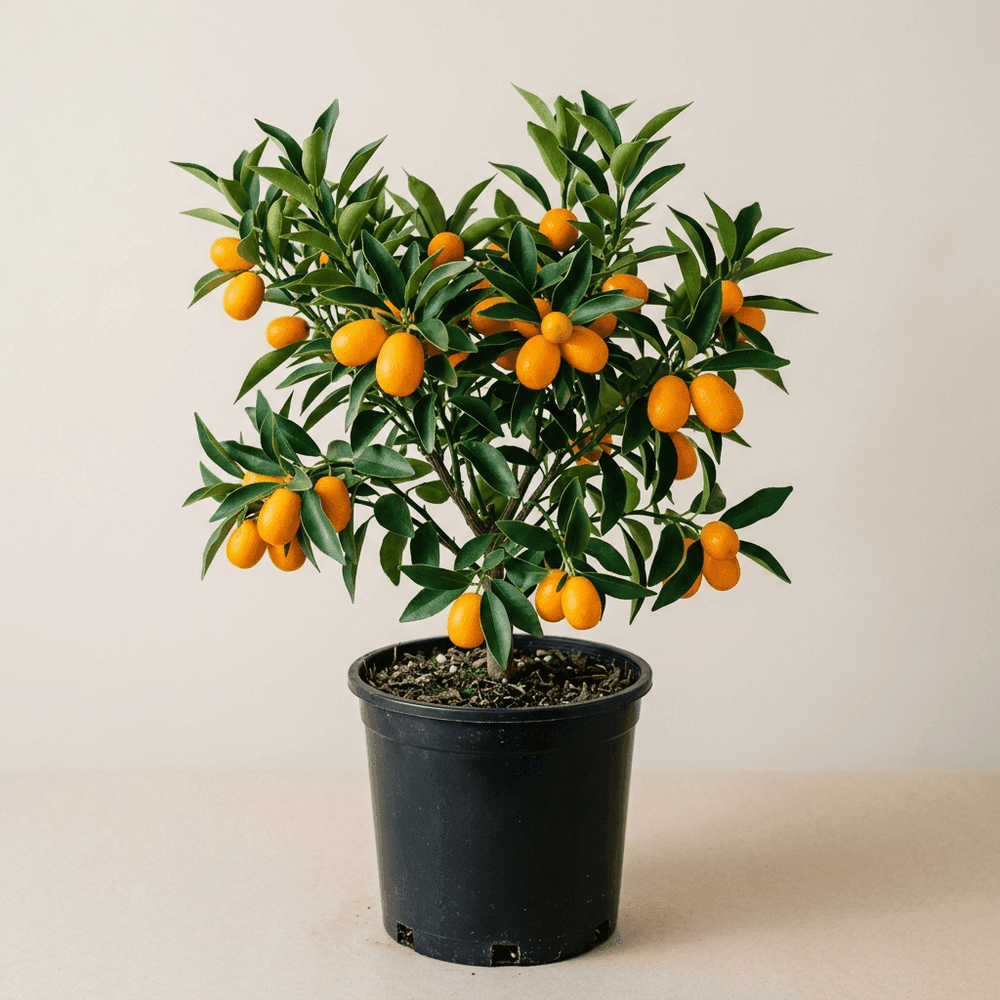
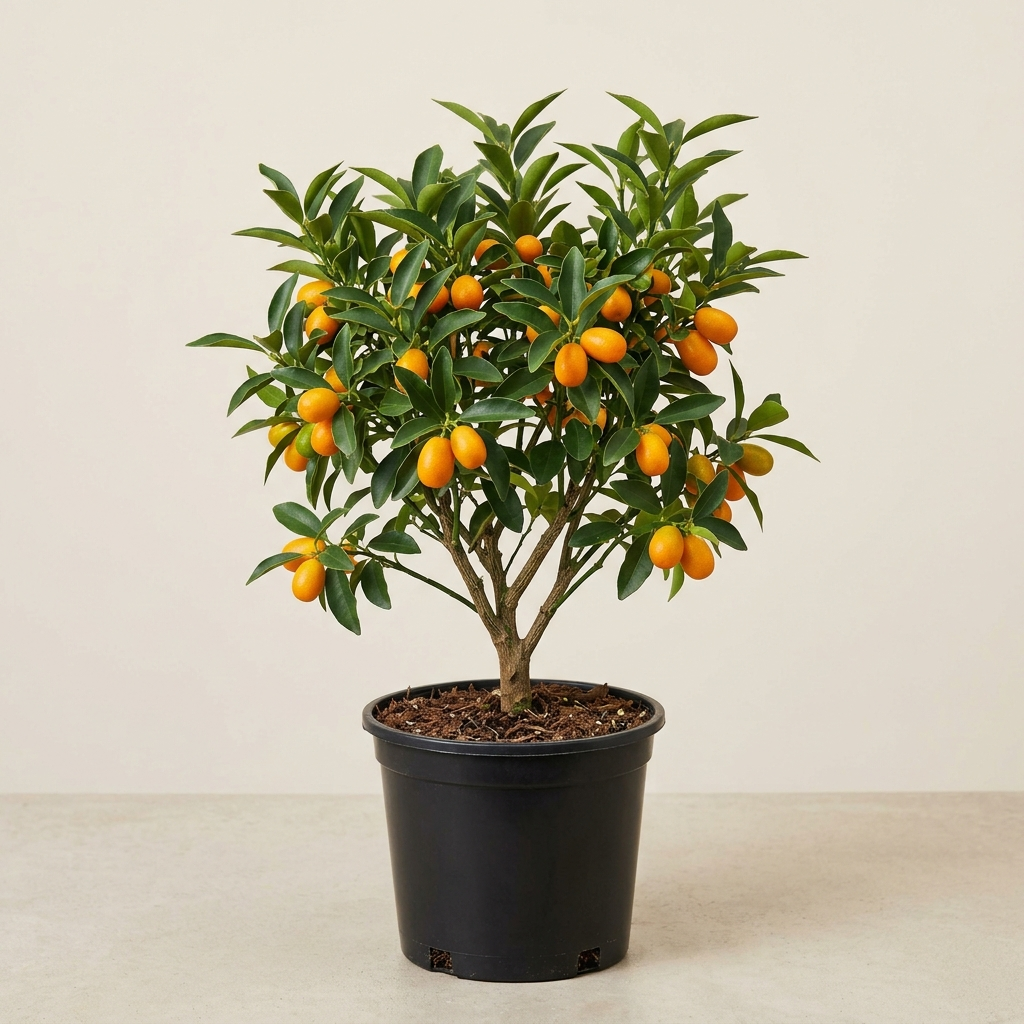
Agrega productos Kumquat y Cardenal con imagenes

diff --git a/src/lib/products.ts b/src/lib/products.ts
@@ -55,6 +55,9 @@ import lavandaL from "@/assets/p-lavanda-l.png";
 import helechoS from "@/assets/p-helecho-s.png";
 import helechoM from "@/assets/p-helecho-m.png";
 import helechoL from "@/assets/p-helecho-l.png";
+import nandinaS from "@/assets/p-nandina.png";
+import kumquatS from "@/assets/p-kumquat.png";
+import cardenalS from "@/assets/p-cardenal.png";
 import { getStorefrontApiUrl, getPublicTokenHeaders } from "./shopify";
 
 
@@ -83,6 +86,75 @@ export type Product = {
 };
 
 export const products: Product[] = [
+  {
+    slug: "cardenal-pelargonium",
+    name: "Cardenal · Pelargonium",
+    scientific: "Pelargonium zonale",
+    category: "Plantas",
+    price: 4900,
+    image: cardenalS,
+    images: [cardenalS, cardenalS, cardenalS],
+    tag: "Best Seller",
+    care: "Fácil",
+    description: "El Cardenal (Pelargonium zonale) es la planta de exterior floreciente por excelencia en balcones, jardineras y patios de todo Chile. Es famoso por su resistencia inigualable y su capacidad para producir agrupaciones de flores de colores muy vibrantes durante la mayor parte del año. Sus hojas redondeadas, a menudo con una zona central más oscura, desprenden un suave aroma al tacto. Es ideal para aportar color tradicional a cualquier rincón soleado con exigencias de cuidado mínimas.",
+    careDetails: "Requiere pleno sol para una floración abundante y constante. Riego moderado, permitiendo que el sustrato se seque superficialmente antes de volver a regar; sensible al exceso de humedad en las raíces. Eliminar las flores marchitas estimula nuevos brotes.",
+    pricesBySize: {
+      "Pequeña": 4900,
+      "Mediana": 8900,
+      "Grande": 14900
+    },
+    sizesAvailability: {
+      "Pequeña": true,
+      "Mediana": false,
+      "Grande": false
+    }
+  },
+  {
+    slug: "kumquat-fortunella",
+    name: "Kumquat · Naranjo Enano",
+    scientific: "Fortunella margarita",
+    category: "Plantas",
+    price: 19900,
+    image: kumquatS,
+    images: [kumquatS, kumquatS, kumquatS],
+    tag: "Nuevo",
+    care: "Medio",
+    description: "El Kumquat (Fortunella margarita), comúnmente conocido como Naranjo Enano, es un pequeño árbol frutal perenne muy apreciado en la jardinería y el paisajismo por su extraordinario valor ornamental. Sus brillantes hojas verdes contrastan espectacularmente con sus pequeños frutos ovalados de un intenso color anaranjado, los cuales son comestibles y tienen un sabor que mezcla notas dulces en la cáscara y cítricas en su interior. Es ideal para cultivar en macetas decorativas, patios y terrazas con abundante luz.",
+    careDetails: "Requiere exposición a pleno sol o luz brillante directa. Riego regular, permitiendo que la capa superficial de la tierra se seque entre riegos. Utilizar un sustrato bien drenado y fertilizante para cítricos en temporada de crecimiento para estimular la floración y fructificación.",
+    pricesBySize: {
+      "Pequeña": 19900,
+      "Mediana": 34900,
+      "Grande": 54900
+    },
+    sizesAvailability: {
+      "Pequeña": true,
+      "Mediana": false,
+      "Grande": false
+    }
+  },
+  {
+    slug: "nandina-domestica",
+    name: "Bambú Sagrado · Nandina",
+    scientific: "Nandina domestica",
+    category: "Plantas",
+    price: 14900,
+    image: nandinaS,
+    images: [nandinaS, nandinaS, nandinaS],
+    tag: "Nuevo",
+    care: "Fácil",
+    description: "El Bambú Sagrado (Nandina domestica) es una planta arbustiva perenne de exterior muy apreciada en el paisajismo moderno. Su follaje delicado recuerda al bambú y cambia espectacularmente de color con las estaciones, pasando de verde claro en primavera a un rojo intenso en invierno. Es perfecta para cultivar en macetas, jardineras o para formar setos de bajo mantenimiento.",
+    careDetails: "Crece mejor a pleno sol o en semisombra (el frío y el sol directo intensifican el color rojo). Riego moderado, tolerando muy bien periodos de sequía una vez que se ha adaptado. Requiere suelo con buen drenaje.",
+    pricesBySize: {
+      "Pequeña": 14900,
+      "Mediana": 26900,
+      "Grande": 48900
+    },
+    sizesAvailability: {
+      "Pequeña": true,
+      "Mediana": false,
+      "Grande": false
+    }
+  },
   {
     slug: "stenocarpus-sinuatus",
     name: "Stenocarpus · Rueda de Fuego",
